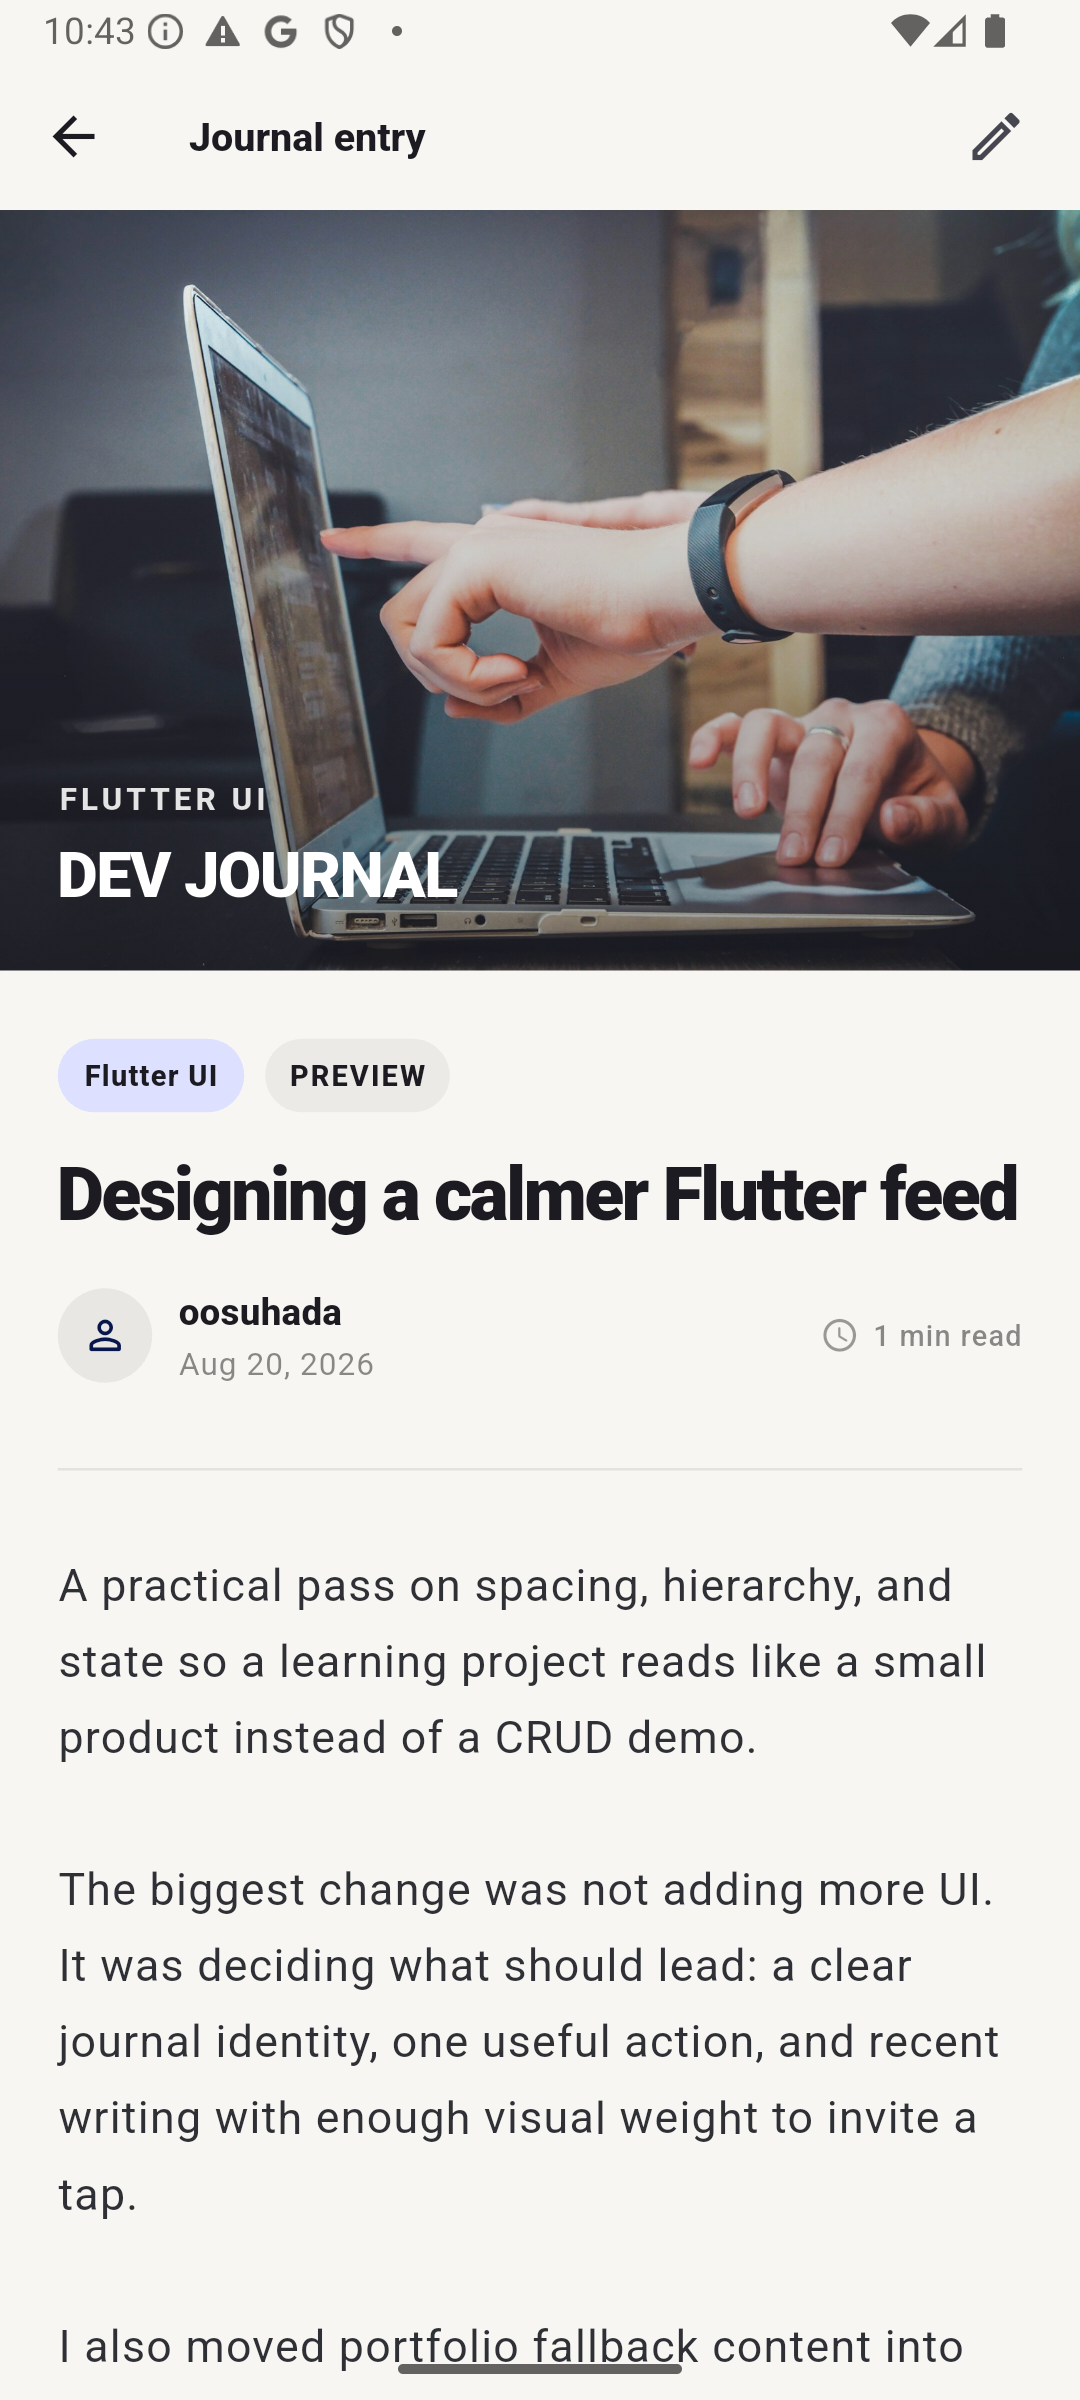
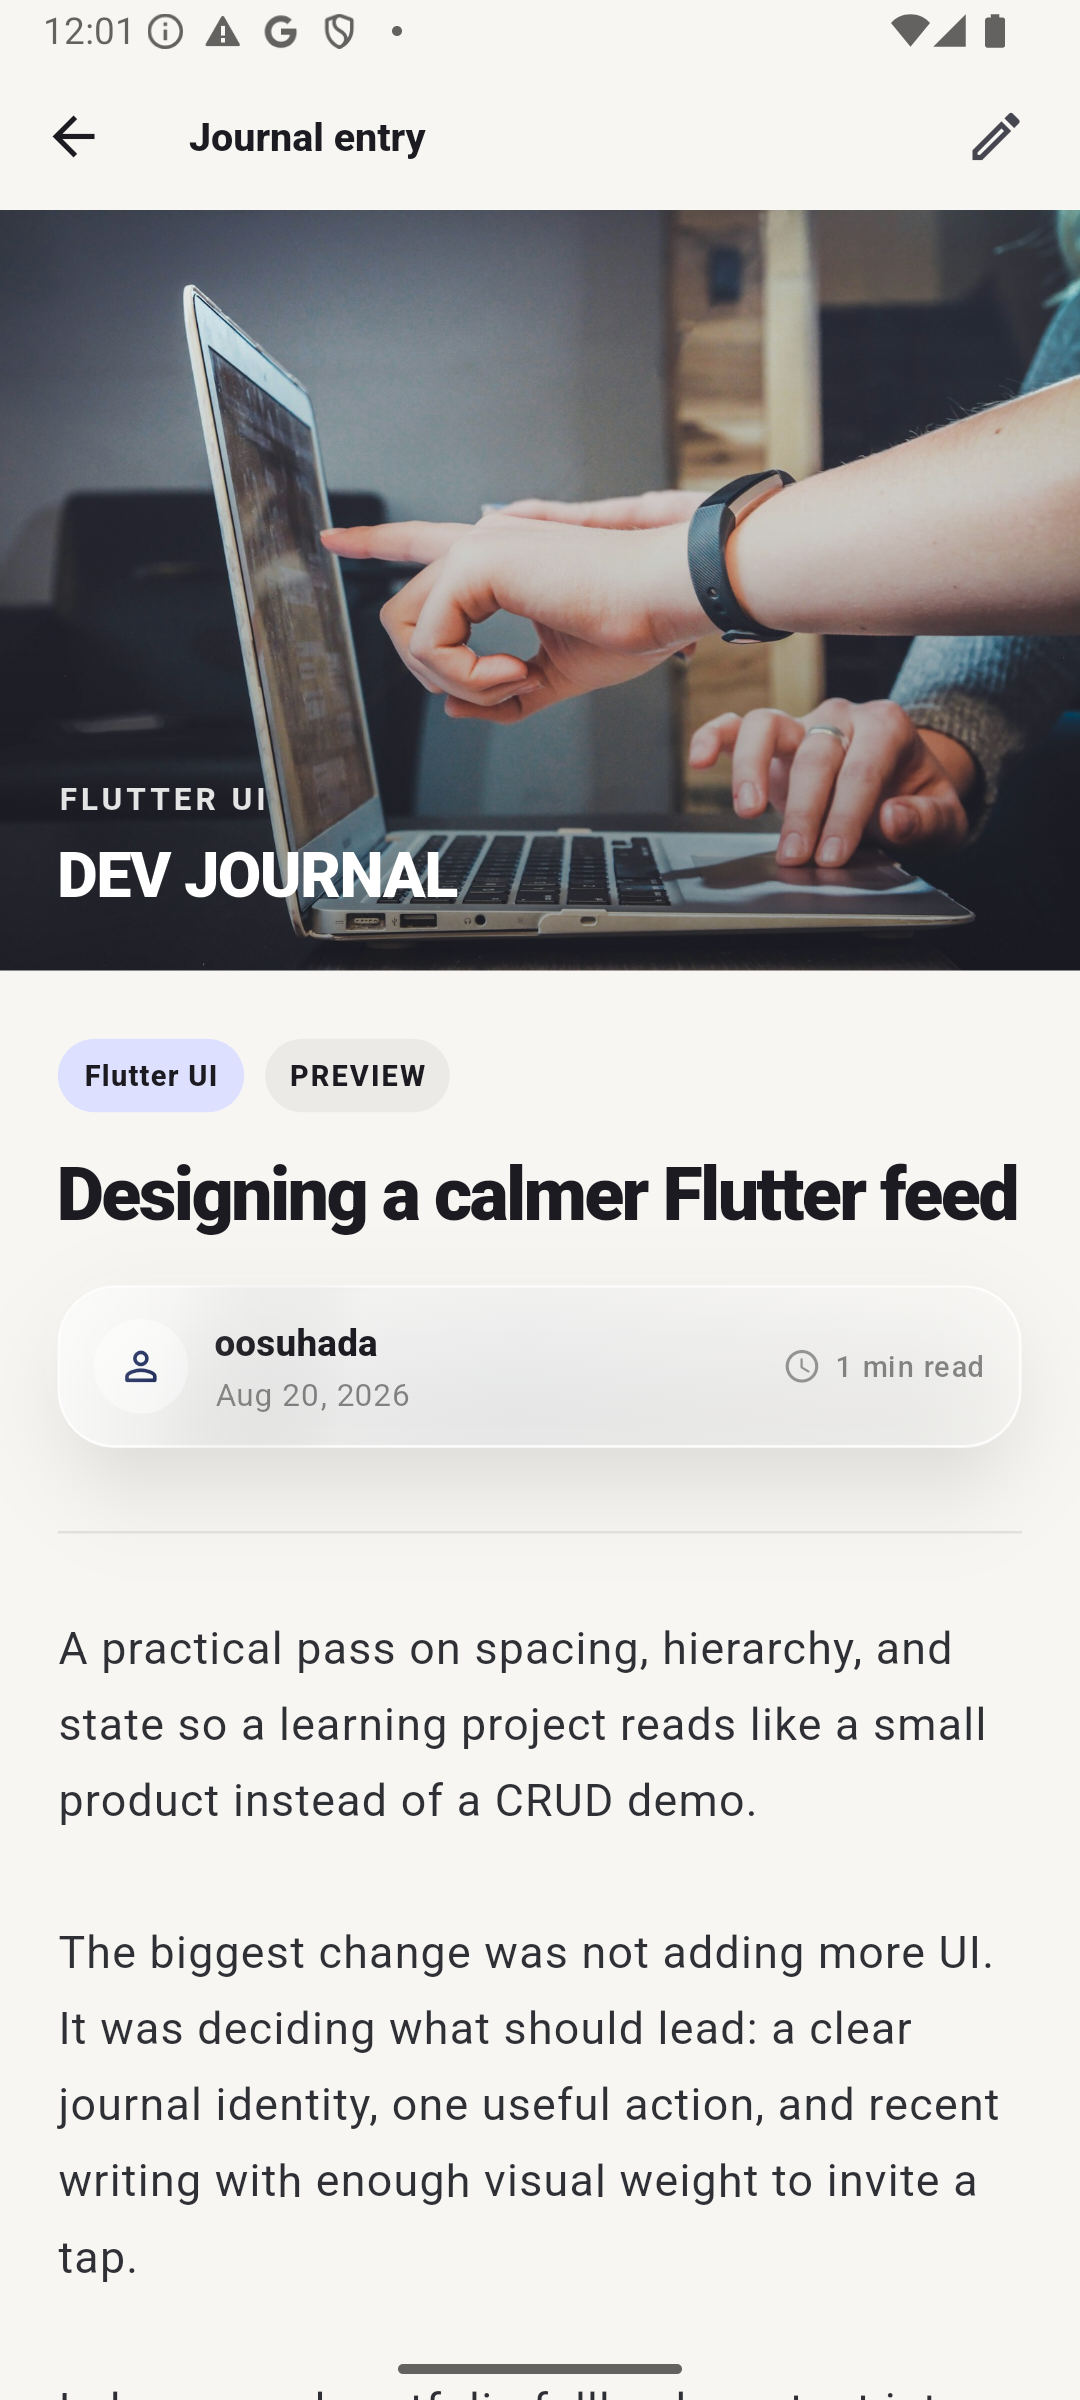
Refine liquid glass portfolio surfaces

diff --git a/lib/ui/pages/write/write_page.dart b/lib/ui/pages/write/write_page.dart
@@ -4,6 +4,7 @@ import 'package:flutter/material.dart';
 import 'package:flutter_firebase_blog_app/data/model/post.dart';
 import 'package:flutter_firebase_blog_app/ui/pages/write/write_view_model.dart';
 import 'package:flutter_firebase_blog_app/ui/widgets/post_cover.dart';
+import 'package:flutter_firebase_blog_app/v2/v2_glass.dart';
 import 'package:flutter_riverpod/flutter_riverpod.dart';
 import 'package:image_picker/image_picker.dart';
 
@@ -110,28 +111,38 @@ class _WritePageState extends ConsumerState<WritePage> {
               const SizedBox(height: 24),
               _SectionLabel(label: 'COVER'),
               const SizedBox(height: 10),
-              _CoverPreview(
-                post: _draftPost(state.imageUrl),
-                localImagePath: localImagePath,
-                imageUrl: state.imageUrl,
-              ),
-              const SizedBox(height: 12),
-              OutlinedButton.icon(
-                onPressed: state.isWriting ? null : _pickImage,
-                icon: state.isWriting
-                    ? const SizedBox(
-                        width: 18,
-                        height: 18,
-                        child: CircularProgressIndicator(strokeWidth: 2),
-                      )
-                    : const Icon(Icons.add_photo_alternate_outlined),
-                label: Text(
-                  state.isWriting
-                      ? 'Uploading cover…'
-                      : localImagePath == null &&
-                              (state.imageUrl?.isEmpty ?? true)
-                          ? 'Choose cover image'
-                          : 'Replace cover image',
+              _GlassFormSection(
+                child: Column(
+                  children: [
+                    _CoverPreview(
+                      post: _draftPost(state.imageUrl),
+                      localImagePath: localImagePath,
+                      imageUrl: state.imageUrl,
+                    ),
+                    const SizedBox(height: 12),
+                    SizedBox(
+                      width: double.infinity,
+                      child: OutlinedButton.icon(
+                        onPressed: state.isWriting ? null : _pickImage,
+                        icon: state.isWriting
+                            ? const SizedBox(
+                                width: 18,
+                                height: 18,
+                                child:
+                                    CircularProgressIndicator(strokeWidth: 2),
+                              )
+                            : const Icon(Icons.add_photo_alternate_outlined),
+                        label: Text(
+                          state.isWriting
+                              ? 'Uploading cover…'
+                              : localImagePath == null &&
+                                      (state.imageUrl?.isEmpty ?? true)
+                                  ? 'Choose cover image'
+                                  : 'Replace cover image',
+                        ),
+                      ),
+                    ),
+                  ],
                 ),
               ),
               const SizedBox(height: 26),
@@ -167,29 +178,35 @@ class _WritePageState extends ConsumerState<WritePage> {
               const SizedBox(height: 26),
               _SectionLabel(label: 'PUBLISHING DETAILS'),
               const SizedBox(height: 10),
-              DropdownButtonFormField<String>(
-                value: selectedCategory,
-                decoration: const InputDecoration(labelText: 'Category'),
-                items: categories
-                    .map(
-                      (category) => DropdownMenuItem(
-                        value: category,
-                        child: Text(category),
-                      ),
-                    )
-                    .toList(),
-                onChanged: (value) {
-                  if (value != null) {
-                    setState(() => selectedCategory = value);
-                  }
-                },
-              ),
-              const SizedBox(height: 12),
-              TextFormField(
-                controller: writerController,
-                textInputAction: TextInputAction.done,
-                decoration: const InputDecoration(labelText: 'Author'),
-                validator: _required('Add an author'),
+              _GlassFormSection(
+                child: Column(
+                  children: [
+                    DropdownButtonFormField<String>(
+                      value: selectedCategory,
+                      decoration: const InputDecoration(labelText: 'Category'),
+                      items: categories
+                          .map(
+                            (category) => DropdownMenuItem(
+                              value: category,
+                              child: Text(category),
+                            ),
+                          )
+                          .toList(),
+                      onChanged: (value) {
+                        if (value != null) {
+                          setState(() => selectedCategory = value);
+                        }
+                      },
+                    ),
+                    const SizedBox(height: 12),
+                    TextFormField(
+                      controller: writerController,
+                      textInputAction: TextInputAction.done,
+                      decoration: const InputDecoration(labelText: 'Author'),
+                      validator: _required('Add an author'),
+                    ),
+                  ],
+                ),
               ),
               const SizedBox(height: 24),
               FilledButton.icon(
@@ -341,6 +358,22 @@ class _SectionLabel extends StatelessWidget {
             fontWeight: FontWeight.w900,
             letterSpacing: 1.4,
           ),
+    );
+  }
+}
+
+class _GlassFormSection extends StatelessWidget {
+  const _GlassFormSection({required this.child});
+
+  final Widget child;
+
+  @override
+  Widget build(BuildContext context) {
+    return AppGlassSurface(
+      borderRadius: BorderRadius.circular(24),
+      blurSigma: 12,
+      padding: const EdgeInsets.all(12),
+      child: child,
     );
   }
 }

diff --git a/lib/ui/pages/detail/detail_page.dart b/lib/ui/pages/detail/detail_page.dart
@@ -3,6 +3,7 @@ import 'package:flutter_firebase_blog_app/data/model/post.dart';
 import 'package:flutter_firebase_blog_app/ui/pages/detail/detail_view_model.dart';
 import 'package:flutter_firebase_blog_app/ui/pages/write/write_page.dart';
 import 'package:flutter_firebase_blog_app/ui/widgets/post_cover.dart';
+import 'package:flutter_firebase_blog_app/v2/v2_glass.dart';
 import 'package:flutter_riverpod/flutter_riverpod.dart';
 
 class DetailPage extends ConsumerWidget {
@@ -100,13 +101,10 @@ class DetailPage extends ConsumerWidget {
                       ),
                 ),
                 const SizedBox(height: 34),
-                Container(
-                  width: double.infinity,
+                AppGlassSurface(
+                  borderRadius: BorderRadius.circular(20),
+                  blurSigma: 12,
                   padding: const EdgeInsets.all(18),
-                  decoration: BoxDecoration(
-                    color: Colors.black.withValues(alpha: .035),
-                    borderRadius: BorderRadius.circular(20),
-                  ),
                   child: Text(
                     previewMode
                         ? 'Portfolio preview · live posts use the same detail layout with Firestore updates.'
@@ -205,46 +203,51 @@ class _PostMetadata extends StatelessWidget {
 
   @override
   Widget build(BuildContext context) {
-    return Row(
-      children: [
-        CircleAvatar(
-          radius: 18,
-          backgroundColor: Colors.black.withValues(alpha: .06),
-          child: const Icon(Icons.person_outline_rounded, size: 18),
-        ),
-        const SizedBox(width: 10),
-        Expanded(
-          child: Column(
-            crossAxisAlignment: CrossAxisAlignment.start,
-            children: [
-              Text(
-                post.writer,
-                style: Theme.of(context)
-                    .textTheme
-                    .labelLarge
-                    ?.copyWith(fontWeight: FontWeight.w800),
-              ),
-              const SizedBox(height: 2),
-              Text(
-                _date(post.createdAt),
-                style: Theme.of(context)
-                    .textTheme
-                    .bodySmall
-                    ?.copyWith(color: Colors.black45),
-              ),
-            ],
+    return AppGlassSurface(
+      borderRadius: BorderRadius.circular(22),
+      blurSigma: 12,
+      padding: const EdgeInsets.symmetric(horizontal: 14, vertical: 12),
+      child: Row(
+        children: [
+          CircleAvatar(
+            radius: 18,
+            backgroundColor: Colors.white.withValues(alpha: .46),
+            child: const Icon(Icons.person_outline_rounded, size: 18),
           ),
-        ),
-        const Icon(Icons.schedule_rounded, size: 15, color: Colors.black38),
-        const SizedBox(width: 5),
-        Text(
-          '${_readMinutes(post.content)} min read',
-          style: Theme.of(context)
-              .textTheme
-              .labelSmall
-              ?.copyWith(color: Colors.black45),
-        ),
-      ],
+          const SizedBox(width: 10),
+          Expanded(
+            child: Column(
+              crossAxisAlignment: CrossAxisAlignment.start,
+              children: [
+                Text(
+                  post.writer,
+                  style: Theme.of(context)
+                      .textTheme
+                      .labelLarge
+                      ?.copyWith(fontWeight: FontWeight.w800),
+                ),
+                const SizedBox(height: 2),
+                Text(
+                  _date(post.createdAt),
+                  style: Theme.of(context)
+                      .textTheme
+                      .bodySmall
+                      ?.copyWith(color: Colors.black45),
+                ),
+              ],
+            ),
+          ),
+          const Icon(Icons.schedule_rounded, size: 15, color: Colors.black38),
+          const SizedBox(width: 5),
+          Text(
+            '${_readMinutes(post.content)} min read',
+            style: Theme.of(context)
+                .textTheme
+                .labelSmall
+                ?.copyWith(color: Colors.black45),
+          ),
+        ],
+      ),
     );
   }
 

diff --git a/lib/ui/pages/home/widgets/home_list_view.dart b/lib/ui/pages/home/widgets/home_list_view.dart
@@ -3,6 +3,7 @@ import 'package:flutter_firebase_blog_app/data/model/post.dart';
 import 'package:flutter_firebase_blog_app/ui/pages/detail/detail_page.dart';
 import 'package:flutter_firebase_blog_app/ui/pages/home/home_view_model.dart';
 import 'package:flutter_firebase_blog_app/ui/widgets/post_cover.dart';
+import 'package:flutter_firebase_blog_app/v2/v2_glass.dart';
 import 'package:flutter_riverpod/flutter_riverpod.dart';
 
 class HomeListView extends ConsumerWidget {
@@ -15,40 +16,59 @@ class HomeListView extends ConsumerWidget {
     return Column(
       crossAxisAlignment: CrossAxisAlignment.start,
       children: [
-        Row(
-          crossAxisAlignment: CrossAxisAlignment.end,
-          children: [
-            Expanded(
-              child: Column(
-                crossAxisAlignment: CrossAxisAlignment.start,
-                children: [
-                  Text(
-                    'RECENT POSTS',
-                    style: Theme.of(context).textTheme.labelMedium?.copyWith(
-                          letterSpacing: 1.5,
-                          fontWeight: FontWeight.w800,
-                          color: Theme.of(context).colorScheme.primary,
-                        ),
-                  ),
-                  const SizedBox(height: 6),
-                  Text(
-                    'Fresh from the build log',
-                    style: Theme.of(context).textTheme.headlineSmall?.copyWith(
-                          fontWeight: FontWeight.w900,
-                          letterSpacing: -.6,
-                        ),
-                  ),
-                ],
+        AppGlassSurface(
+          borderRadius: BorderRadius.circular(22),
+          blurSigma: 12,
+          padding: const EdgeInsets.fromLTRB(15, 13, 15, 13),
+          child: Row(
+            crossAxisAlignment: CrossAxisAlignment.end,
+            children: [
+              Expanded(
+                child: Column(
+                  crossAxisAlignment: CrossAxisAlignment.start,
+                  children: [
+                    Text(
+                      'RECENT POSTS',
+                      style: Theme.of(context).textTheme.labelMedium?.copyWith(
+                            letterSpacing: 1.5,
+                            fontWeight: FontWeight.w800,
+                            color: Theme.of(context).colorScheme.primary,
+                          ),
+                    ),
+                    const SizedBox(height: 6),
+                    Text(
+                      'Fresh from the build log',
+                      style:
+                          Theme.of(context).textTheme.headlineSmall?.copyWith(
+                                fontWeight: FontWeight.w900,
+                                letterSpacing: -.6,
+                              ),
+                    ),
+                  ],
+                ),
               ),
-            ),
-            Text(
-              '${state.posts.length} notes',
-              style: Theme.of(context)
-                  .textTheme
-                  .labelMedium
-                  ?.copyWith(color: Colors.black45),
-            ),
-          ],
+              Container(
+                padding: const EdgeInsets.symmetric(horizontal: 9, vertical: 6),
+                decoration: BoxDecoration(
+                  color: Theme.of(context)
+                      .colorScheme
+                      .primary
+                      .withValues(alpha: .08),
+                  borderRadius: BorderRadius.circular(999),
+                  border: Border.all(
+                    color: Colors.white.withValues(alpha: .72),
+                  ),
+                ),
+                child: Text(
+                  '${state.posts.length} notes',
+                  style: Theme.of(context).textTheme.labelMedium?.copyWith(
+                        color: Theme.of(context).colorScheme.onSurfaceVariant,
+                        fontWeight: FontWeight.w700,
+                      ),
+                ),
+              ),
+            ],
+          ),
         ),
         const SizedBox(height: 16),
         ...state.posts.indexed.expand(
